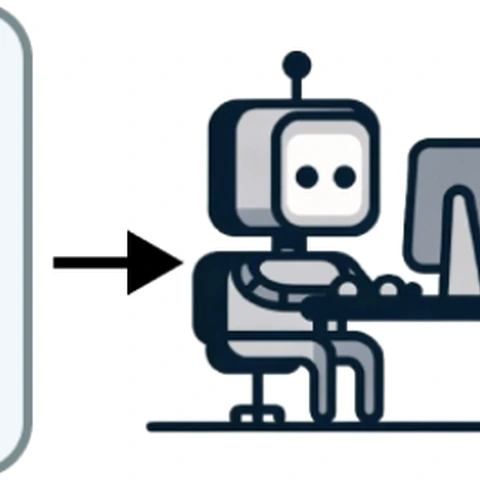
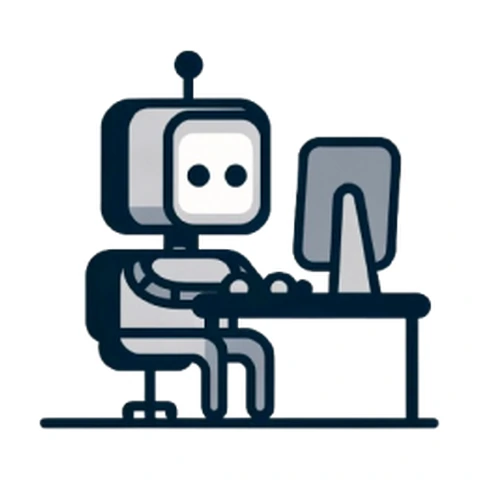
Center and refresh all publication thumbnails
Use original figures for BinProp, Entropy Enigma, RDumb, DeepGaze IIE, and Emerging Disentanglement, and project artwork for Caddie, AlgoTune, Humanity’s Last Exam, SWE-bench Multimodal, and CiteME. Frame the selected artwork on consistent square tiles and retain responsive WebP variants.

diff --git a/_pages/about.html b/_pages/about.html
@@ -78,7 +78,7 @@ function toggleBibtex(trigger) {
 
 <div class="publications">
   <div class="pub-entry" id="binprop">
-    <img class="pub-thumb" src="/assets/optimized/thumb-binprop-320.webp" srcset="/assets/optimized/thumb-binprop-160.webp 160w, /assets/optimized/thumb-binprop-320.webp 320w, /assets/optimized/thumb-binprop-480.webp 480w" sizes="(max-width: 768px) 238px, 150px" width="480" height="480" loading="lazy" decoding="async" alt="BinProp chess move explanations">
+    {% include publication-thumbnail.html paper="binprop" alt="Chess position with two candidate moves marked" %}
     <div class="pub-content">
       <strong class="pub-title">Explaining Chess and Go in Natural Language</strong>
       <span class="pub-authors"><strong class="pub-author-self">Ori Press</strong>, Alexander Golubev</span>
@@ -101,7 +101,7 @@ function toggleBibtex(trigger) {
     </div>
   </div>
   <div class="pub-entry" id="caddie">
-    <img class="pub-thumb" src="/assets/optimized/thumb-caddie-320.webp" srcset="/assets/optimized/thumb-caddie-160.webp 160w, /assets/optimized/thumb-caddie-320.webp 320w, /assets/optimized/thumb-caddie-480.webp 480w" sizes="(max-width: 768px) 238px, 150px" width="480" height="480" loading="lazy" decoding="async" alt="Caddie training and inference overview">
+    {% include publication-thumbnail.html paper="caddie" alt="Caddie mascot carrying golf clubs" %}
     <div class="pub-content">
       <strong class="pub-title">Training Advisors for LLM Agents from Task Outcomes</strong>
       <span class="pub-authors">Sergei Polezhaev, Barys Liskavets, <strong class="pub-author-self">Ori Press</strong>, Alexander Golubev</span>
@@ -122,7 +122,7 @@ function toggleBibtex(trigger) {
     </div>
   </div>
   <div class="pub-entry">
-    <img class="pub-thumb" src="/assets/optimized/thumb-algotune-320.webp" srcset="/assets/optimized/thumb-algotune-160.webp 160w, /assets/optimized/thumb-algotune-320.webp 320w, /assets/optimized/thumb-algotune-480.webp 480w" sizes="(max-width: 768px) 238px, 150px" width="480" height="480" loading="lazy" decoding="async" alt="">
+    {% include publication-thumbnail.html paper="algotune" alt="AlgoTune running robot mascot" %}
     <div class="pub-content">
       <strong class="pub-title">AlgoTune: Can Language Models Speed Up General-Purpose Numerical Programs?</strong>
       <span class="pub-authors"><strong class="pub-author-self">Ori Press</strong>, Brandon Amos, Haoyu Zhao, Yikai Wu, Samuel Ainsworth, Dominik Krupke, Patrick Kidger, Touqir Sajed, Bartolomeo Stellato, Jisun Park, Nathanael Bosch, Eli Meril, Albert Steppi, Arman Zharmagambetov, Fangzhao Zhang, David Pérez–Piñeiro, Alberto Mercurio, Ni Zhan, Talor Abramovich, Kilian Lieret, Hanlin Zhang, Shirley Huang, Matthias Bethge, Ofir Press</span>
@@ -145,7 +145,7 @@ function toggleBibtex(trigger) {
     </div>
   </div>
   <div class="pub-entry">
-    <img class="pub-thumb" src="/assets/optimized/thumb-humanitysexam-320.webp" srcset="/assets/optimized/thumb-humanitysexam-160.webp 160w, /assets/optimized/thumb-humanitysexam-320.webp 320w, /assets/optimized/thumb-humanitysexam-480.webp 480w" sizes="(max-width: 768px) 238px, 150px" width="480" height="480" loading="lazy" decoding="async" alt="">
+    {% include publication-thumbnail.html paper="humanitysexam" alt="Humanity’s Last Exam project mark" %}
     <div class="pub-content">
       <strong class="pub-title">Humanity's Last Exam</strong>
       <span class="pub-authors">Long Phan, Alice Gatti, Ziwen Han, …, <strong class="pub-author-self">Ori Press</strong>, … <em>(contributed 6 questions, 1 in the top 550)</em></span>
@@ -167,7 +167,7 @@ function toggleBibtex(trigger) {
     </div>
   </div>
   <div class="pub-entry">
-    <img class="pub-thumb" src="/assets/optimized/thumb-swebench-320.webp" srcset="/assets/optimized/thumb-swebench-160.webp 160w, /assets/optimized/thumb-swebench-320.webp 320w, /assets/optimized/thumb-swebench-480.webp 480w" sizes="(max-width: 768px) 238px, 150px" width="480" height="480" loading="lazy" decoding="async" alt="">
+    {% include publication-thumbnail.html paper="swebench" alt="SWE-bench Multimodal llama wearing 3D glasses and using a laptop" %}
     <div class="pub-content">
       <strong class="pub-title">SWE-bench Multimodal: Do AI Systems Generalize to Visual Software Domains?</strong>
       <span class="pub-authors">John Yang*, Carlos E. Jimenez*, Alex L. Zhang, Kilian Lieret, Joyce Yang, Xindi Wu, <strong class="pub-author-self">Ori Press</strong>, Niklas Muennighoff, Gabriel Synnaeve, Karthik Narasimhan, Diyi Yang, Sida I. Wang, Ofir Press</span>
@@ -187,7 +187,7 @@ function toggleBibtex(trigger) {
     </div>
   </div>
   <div class="pub-entry">
-    <img class="pub-thumb" src="/assets/optimized/thumb-citeme-320.webp" srcset="/assets/optimized/thumb-citeme-160.webp 160w, /assets/optimized/thumb-citeme-320.webp 320w, /assets/optimized/thumb-citeme-480.webp 480w" sizes="(max-width: 768px) 238px, 150px" width="480" height="480" loading="lazy" decoding="async" alt="">
+    {% include publication-thumbnail.html paper="citeme" alt="CiteME robot working at a computer" %}
     <div class="pub-content">
       <strong class="pub-title">CiteME: Can Language Models Accurately Cite Scientific Claims?</strong>
       <span class="pub-authors"><strong class="pub-author-self">Ori Press</strong>*, Andreas Hochlehnert*, Ameya Prabhu, Vishaal Udandarao, Ofir Press‡, Matthias Bethge‡ (*/‡ shared first/last authorship)</span>
@@ -209,7 +209,7 @@ function toggleBibtex(trigger) {
     </div>
   </div>
   <div class="pub-entry">
-    <img class="pub-thumb" src="/assets/optimized/thumb-entropy-320.webp" srcset="/assets/optimized/thumb-entropy-160.webp 160w, /assets/optimized/thumb-entropy-320.webp 320w, /assets/optimized/thumb-entropy-480.webp 480w" sizes="(max-width: 768px) 238px, 150px" width="480" height="480" loading="lazy" decoding="async" alt="">
+    {% include publication-thumbnail.html paper="entropy" alt="Feature clusters in the failure case of entropy minimization" %}
     <div class="pub-content">
       <strong class="pub-title">The Entropy Enigma: Success and Failure of Entropy Minimization</strong>
       <span class="pub-authors"><strong class="pub-author-self">Ori Press</strong>, Ravid Shwartz-Ziv, Yann LeCun, Matthias Bethge</span>
@@ -237,7 +237,7 @@ function toggleBibtex(trigger) {
     </div>
   </div>
   <div class="pub-entry">
-    <img class="pub-thumb" src="/assets/optimized/thumb-rdumb-320.webp" srcset="/assets/optimized/thumb-rdumb-160.webp 160w, /assets/optimized/thumb-rdumb-320.webp 320w, /assets/optimized/thumb-rdumb-480.webp 480w" sizes="(max-width: 768px) 238px, 150px" width="480" height="480" loading="lazy" decoding="async" alt="">
+    {% include publication-thumbnail.html paper="rdumb" alt="Image corruption grid across levels of Gaussian noise and motion blur" %}
     <div class="pub-content">
       <strong class="pub-title">RDumb: A simple approach that questions our progress in continual test-time adaptation</strong>
       <span class="pub-authors"><strong class="pub-author-self">Ori Press</strong>, Steffen Schneider, Matthias Kümmerer, Matthias Bethge</span>
@@ -258,7 +258,7 @@ function toggleBibtex(trigger) {
     </div>
   </div>
   <div class="pub-entry">
-    <img class="pub-thumb" src="/assets/optimized/thumb-calibrated-320.webp" srcset="/assets/optimized/thumb-calibrated-160.webp 160w, /assets/optimized/thumb-calibrated-320.webp 320w, /assets/optimized/thumb-calibrated-480.webp 480w" sizes="(max-width: 768px) 238px, 150px" width="480" height="480" loading="lazy" decoding="async" alt="">
+    {% include publication-thumbnail.html paper="calibrated" alt="Human gaze fixations alongside the DeepGaze IIE prediction" %}
     <div class="pub-content">
       <strong class="pub-title">Calibrated prediction in and out-of-domain for state-of-the-art saliency modeling</strong>
       <span class="pub-authors">Akis Linardos*, Matthias Kümmerer*, <strong class="pub-author-self">Ori Press</strong>, Matthias Bethge</span>
@@ -277,7 +277,7 @@ function toggleBibtex(trigger) {
     </div>
   </div>
   <div class="pub-entry">
-    <img class="pub-thumb" src="/assets/optimized/thumb-emerging-320.webp" srcset="/assets/optimized/thumb-emerging-160.webp 160w, /assets/optimized/thumb-emerging-320.webp 320w, /assets/optimized/thumb-emerging-480.webp 480w" sizes="(max-width: 768px) 238px, 150px" width="480" height="480" loading="lazy" decoding="async" alt="">
+    {% include publication-thumbnail.html paper="emerging" alt="Grid of faces combining source images with glasses from reference images" %}
     <div class="pub-content">
       <strong class="pub-title">Emerging Disentanglement in Auto-Encoder Based Unsupervised Image Content Transfer</strong>
       <span class="pub-authors"><strong class="pub-author-self">Ori Press</strong>, Tomer Galanti, Sagie Benaim, Lior Wolf</span>

diff --git a/_includes/publication-thumbnail.html b/_includes/publication-thumbnail.html
@@ -1,0 +1,7 @@
+{%- assign asset = "/assets/optimized/thumb-" | append: include.paper | relative_url -%}
+<img class="pub-thumb"
+     src="{{ asset }}-320.webp?v=2"
+     srcset="{{ asset }}-160.webp?v=2 160w, {{ asset }}-320.webp?v=2 320w, {{ asset }}-480.webp?v=2 480w"
+     sizes="(max-width: 768px) 238px, 150px"
+     width="480" height="480" loading="lazy" decoding="async"
+     alt="{{ include.alt | escape }}">

diff --git a/_includes/head/homepage.html b/_includes/head/homepage.html
@@ -321,11 +321,15 @@ body::before {
 
 .pub-thumb {
     display: block;
+    align-self: center;
     flex: 0 0 150px !important;
     width: 150px !important;
     height: 150px !important;
-    object-fit: cover;
+    object-fit: contain;
     object-position: center;
+    background: #fff;
+    border-radius: 10px;
+    box-shadow: 0 0 0 1px #e3e2de;
     margin-right: 0;
 }
 

diff --git a/scripts/optimize-homepage-images.py b/scripts/optimize-homepage-images.py
@@ -19,6 +19,7 @@ from PIL import Image, ImageOps, __version__ as PILLOW_VERSION, features
 
 ROOT = Path(__file__).resolve().parents[1]
 PROFILE_ICON_DATA = ROOT / "_data/profile_icons.json"
+PUBLICATION_ARTWORK = ROOT / "assets/publication-artwork"
 THUMBNAILS = (
     "thumb-binprop.png",
     "thumb-caddie.png",
@@ -39,6 +40,7 @@ SOCIAL_ICONS = (
     "linkedin-icon.png",
 )
 THUMBNAIL_SIZES = (160, 320, 480)
+THUMBNAIL_INSET = 0.08
 PORTRAIT_WIDTHS = (240, 336, 480, 648, 800)
 THUMBNAIL_QUALITY = 92
 PORTRAIT_QUALITY = 84
@@ -67,16 +69,15 @@ def encode(image: Image.Image, format_name: str, quality: Optional[int]) -> byte
 
 def derivatives():
     for name in THUMBNAILS:
-        source = ROOT / "assets" / name
+        source = PUBLICATION_ARTWORK / name
         with Image.open(source) as original:
             image = original.convert("RGBA")
             for size in THUMBNAIL_SIZES:
-                square = ImageOps.fit(
-                    image,
-                    (size, size),
-                    method=Image.Resampling.LANCZOS,
-                    centering=(0.5, 0.5),
-                )
+                inset = round(size * THUMBNAIL_INSET)
+                artwork = ImageOps.contain(image, (size - 2 * inset,) * 2, Image.Resampling.LANCZOS)
+                square = Image.new("RGB", (size, size), "white")
+                position = ((size - artwork.width) // 2, (size - artwork.height) // 2)
+                square.paste(artwork, position, artwork)
                 target = ROOT / "assets/optimized" / f"{source.stem}-{size}.webp"
                 yield source, target, square, "WEBP", THUMBNAIL_QUALITY
     source = ROOT / "images/neckar.jpeg"
